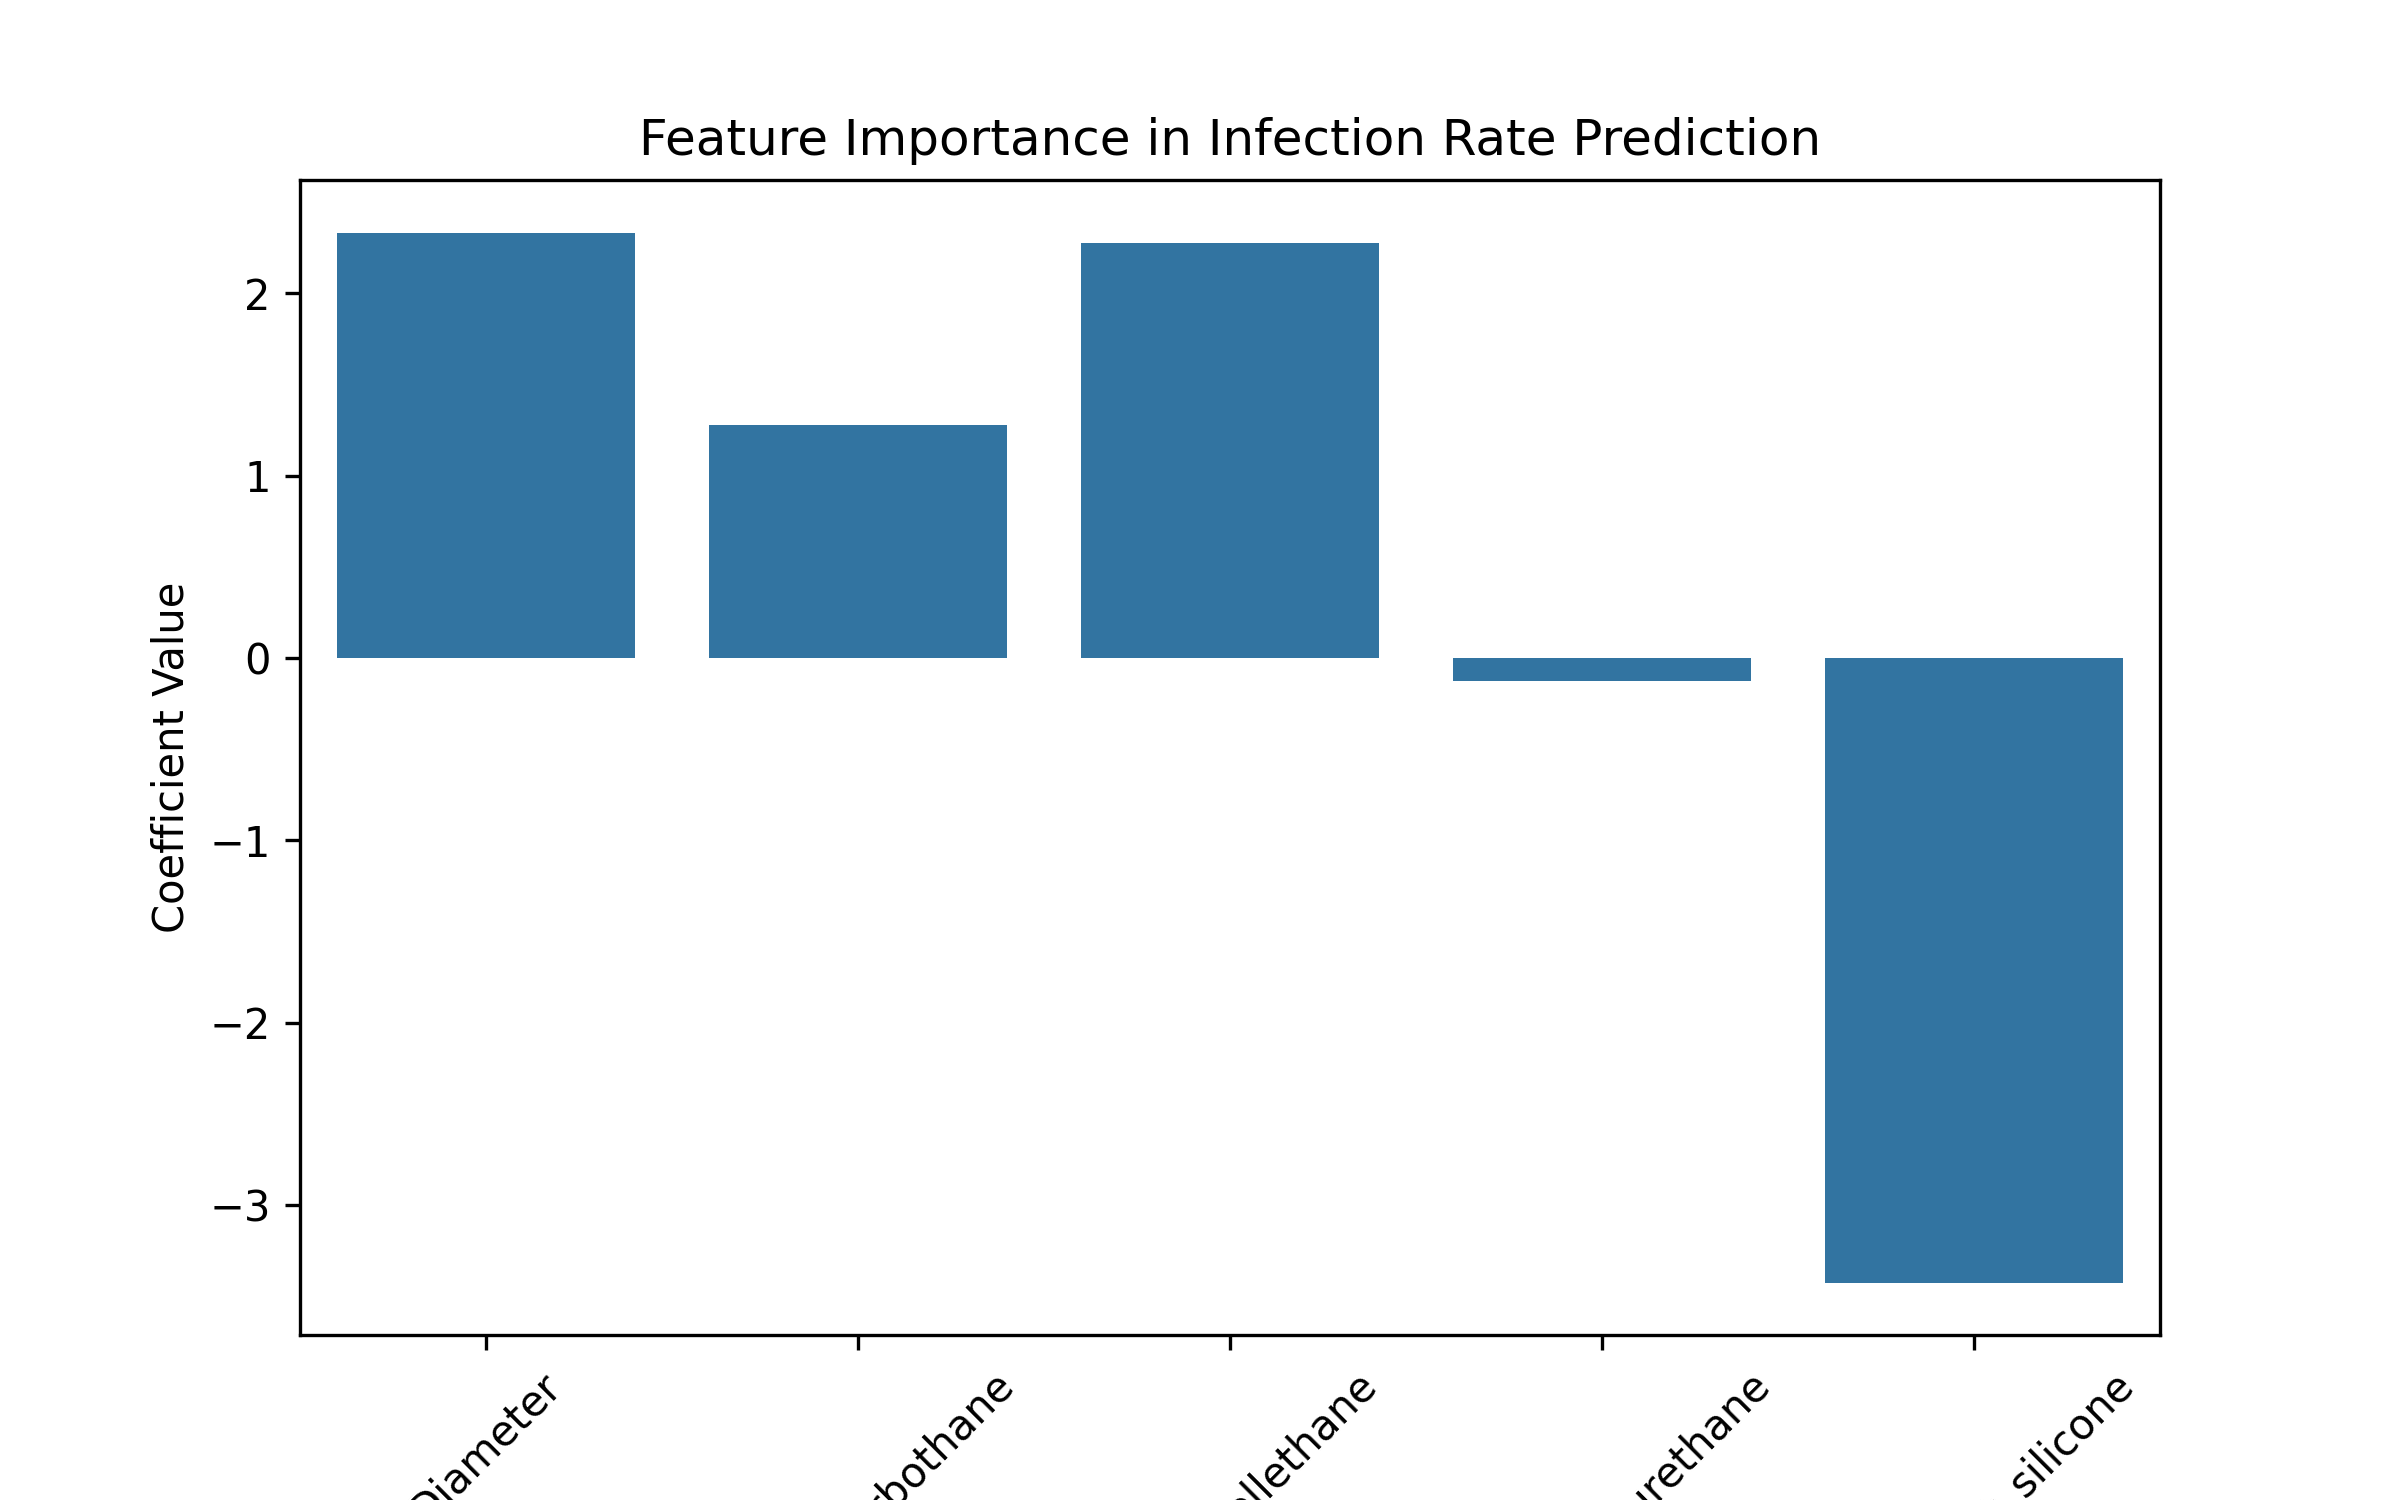
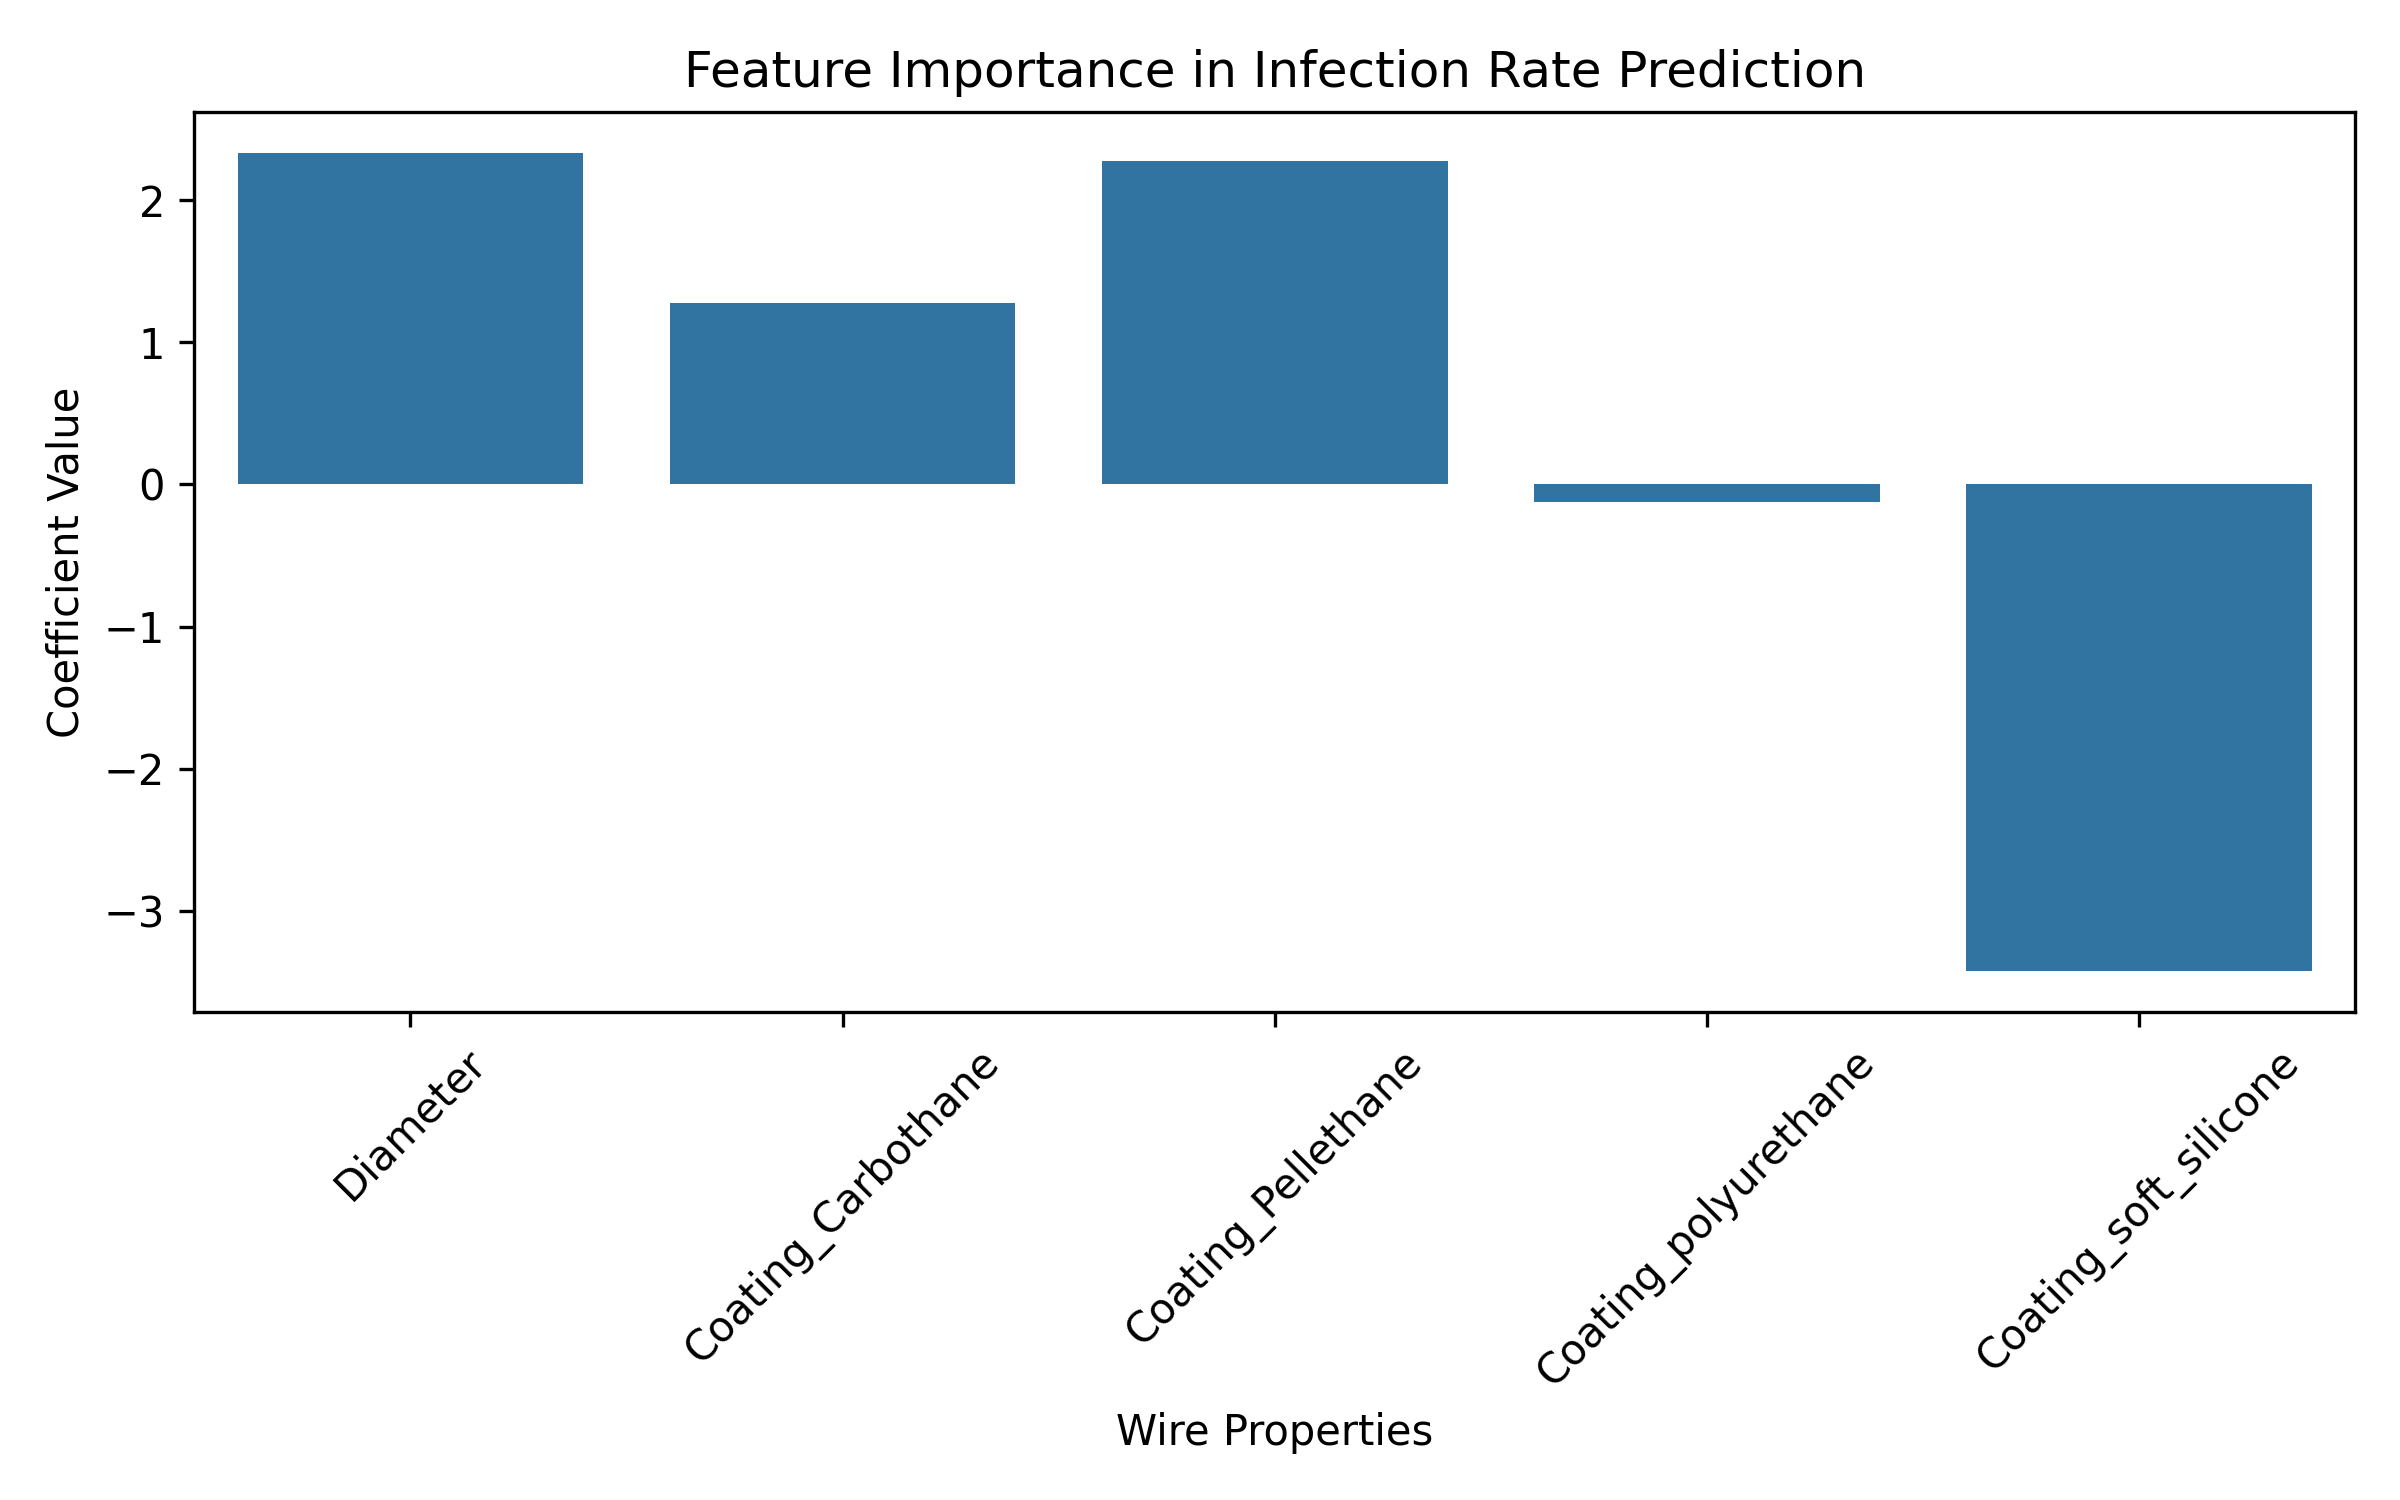
simple pyomo optimizer is done

diff --git a/optimization_scripts/simple/linear_regression.py b/optimization_scripts/simple/linear_regression.py
@@ -1,0 +1,104 @@
+import pandas as pd
+import numpy as np
+import matplotlib.pyplot as plt
+import seaborn as sns
+from sklearn.model_selection import train_test_split
+from sklearn.linear_model import LinearRegression
+from sklearn.preprocessing import OneHotEncoder, OrdinalEncoder
+from sklearn.metrics import mean_squared_error, r2_score
+import json 
+
+# Sample Data
+# Pellethane HVAD - Carbothane HVAD - HeartMate II - HeartMate 3 - HeartWare
+# df = pd.DataFrame({
+#     'Diameter': [4.8, 4.8, 6.0, 6.6, 6.0],
+#     'Coating': ['Pellethane', 'Carbothane', 'soft_silicone', 'polyurethane', 'polyurethane'],
+#     'InfectionRate': [10.1, 9.1, 7.2, 11.9, 10.5]
+# })
+
+df = pd.read_csv("data.csv")
+
+
+# One-Hot Encoding for Categorical Variable
+encoder = OneHotEncoder(sparse_output=False)
+coating_encoded = encoder.fit_transform(df[['Coating Material']])
+coating_columns = encoder.get_feature_names_out(['Coating Material'])
+
+print(coating_encoded)
+
+
+# Merge Encoded Data
+df_encoded = pd.concat([df.drop(columns=['Coating Material']), pd.DataFrame(coating_encoded, columns=coating_columns)], axis=1)
+
+# Define Features and Target Variable
+X = df_encoded.drop(columns=['Device','Infection Rate'])
+y = df_encoded['Infection Rate']
+
+# Train the Regression Model
+model = LinearRegression(fit_intercept=False)
+model.fit(X, y)
+
+# Predictions
+y_pred = model.predict(X)
+
+# Model Evaluation
+mse = mean_squared_error(y, y_pred)
+r2 = r2_score(y, y_pred)
+print("Mean Squared Error:", mse)
+print("R-Squared Value:", r2)
+print("Intercept:", model.intercept_)
+
+
+
+# # Visualization of Feature Importance
+# plt.figure(figsize=(8, 5))
+# sns.barplot(x=X.columns, y=model.coef_)
+# plt.title("Feature Importance in Infection Rate Prediction")
+# plt.xlabel("Wire Properties")
+# plt.ylabel("Coefficient Value")
+# plt.xticks(rotation=45)
+# plt.tight_layout()
+# plt.savefig("importance.png", dpi=300)
+
+
+feature_names = X.columns
+coefficients = model.coef_
+coef_df = pd.DataFrame({'Feature': feature_names, 'Coefficient': coefficients})
+
+# Step 6: Add baseline coating info
+baseline_coating = sorted(df['Coating Material'].unique())[0]
+coef_df = pd.concat([
+    pd.DataFrame({'Feature': [f'Coating Material_{baseline_coating}'], 'Coefficient': [0.0]}),
+    coef_df
+], ignore_index=True)
+
+# Step 7: Display results
+print("\n=== Linear Regression Coefficients ===")
+print(coef_df)
+
+# Step 8: Plot all feature effects
+plt.figure(figsize=(8, 5))
+sns.barplot(x='Coefficient', y='Feature', data=coef_df, palette='coolwarm')
+plt.axvline(0, linestyle='--', color='gray')
+plt.title('Effect of Features on Infection Rate')
+plt.tight_layout()
+plt.savefig("importance2.png", dpi=300)
+# plt.show()
+
+# save model coefficients
+coeffs = dict(zip(X.columns, model.coef_))
+with open('model_coeffs.txt', 'w') as convert_file: 
+     convert_file.write(json.dumps(coeffs))
+np.savetxt("model_intercept.txt", np.array([model.intercept_]))
+
+# df_predict = pd.DataFrame({
+#     'Diameter': [4.8],
+#     'Coating_Pellethane': [0],
+#     'Coating_polyurethane': [1],
+#     'Coating_soft silicone': [0],
+# })
+
+# print(model.predict(df_predict))
+
+# corr = df_encoded.corr()
+# corr.style.background_gradient(cmap='coolwarm')

diff --git a/optimization_scripts/simple/optimization_pyomo.py b/optimization_scripts/simple/optimization_pyomo.py
@@ -1,0 +1,60 @@
+solver = 'ipopt'
+ 
+import pyomo.environ as pyo
+SOLVER = pyo.SolverFactory(solver)
+
+assert SOLVER.available(), f"Solver {solver} is not available."
+
+import json
+
+coeffs = json.load(open("model_coeffs.txt"))
+
+model = pyo.ConcreteModel("Wire optimization")
+
+
+# model.display()
+
+# create decision variables
+model.x_1 = pyo.Var(bounds=(4, 10))
+model.x_2 = pyo.Var(bounds=(5, 20))
+model.x_3 = pyo.Var(bounds=(0, 1), domain=pyo.Binary)
+model.x_4 = pyo.Var(bounds=(0, 1), domain=pyo.Binary)
+model.x_5 = pyo.Var(bounds=(0, 1), domain=pyo.Binary)
+model.x_6 = pyo.Var(bounds=(0, 1), domain=pyo.Binary)
+
+# model.display()
+
+model.cost = coeffs['Diameter'] * model.x_1 + \
+             coeffs['Bending Stiffness'] * model.x_2 + \
+             coeffs['Coating Material_Carbothane'] * model.x_3 + \
+             coeffs['Coating Material_Pellethane'] * model.x_4 + \
+             coeffs['Coating Material_silicone'] * model.x_5 + \
+             coeffs['Coating Material_soft silicone'] * model.x_6
+
+# model.display()
+
+# objective function
+model.infection_rate = pyo.Objective(expr=model.cost, sense=pyo.minimize)
+
+# constraints
+
+model.const = pyo.Constraint(expr = model.x_3 + model.x_4 + model.x_5 + model.x_6 == 1)
+
+
+results = SOLVER.solve(model, tee=True)
+
+# display the whole model
+model.pprint()
+
+pyo.value(model.infection_rate)
+
+
+print("\n=== Optimal Wire Design to Minimize Infection Rate ===")
+print("Diameter =", model.x_1())
+print("Bending Stiffness =", model.x_2())
+print("Coating Material_Carbothane =", model.x_3())
+print("Coating Material_Pellethane =", model.x_4())
+print("Coating Material_silicone =", model.x_5())
+print("Coating Material_soft silicone =", model.x_6())
+
+print(f"Estimated infection rate = {pyo.value(model.cost): 9.2f}")

diff --git a/optimization_scripts/linear_regression.py b/optimization_scripts/linear_regression.py
@@ -66,14 +66,15 @@ plt.title("Feature Importance in Infection Rate Prediction")
 plt.xlabel("Wire Properties")
 plt.ylabel("Coefficient Value")
 plt.xticks(rotation=45)
+plt.tight_layout()
 plt.savefig("importance.png", dpi=300)
 
-df_predict = pd.DataFrame({
-    'Diameter': [4.8],
-    'Coating_Pellethane': [0],
-    'Coating_polyurethane': [1],
-    'Coating_soft silicone': [0],
-})
+# df_predict = pd.DataFrame({
+#     'Diameter': [4.8],
+#     'Coating_Pellethane': [0],
+#     'Coating_polyurethane': [1],
+#     'Coating_soft silicone': [0],
+# })
 
 # print(model.predict(df_predict))
 

diff --git a/README.md b/README.md
@@ -13,6 +13,10 @@ conda activate pulsevad
 conda install pip Jinja2
 pip3 install pandas numpy seaborn matplotlib
 conda install -c conda-forge scikit-learn
+conda install -c conda-forge pyomo
+conda install -c conda-forge ipopt glpk
+
+
 ```
 
 Next, we run the following command in order to activate the environment:
